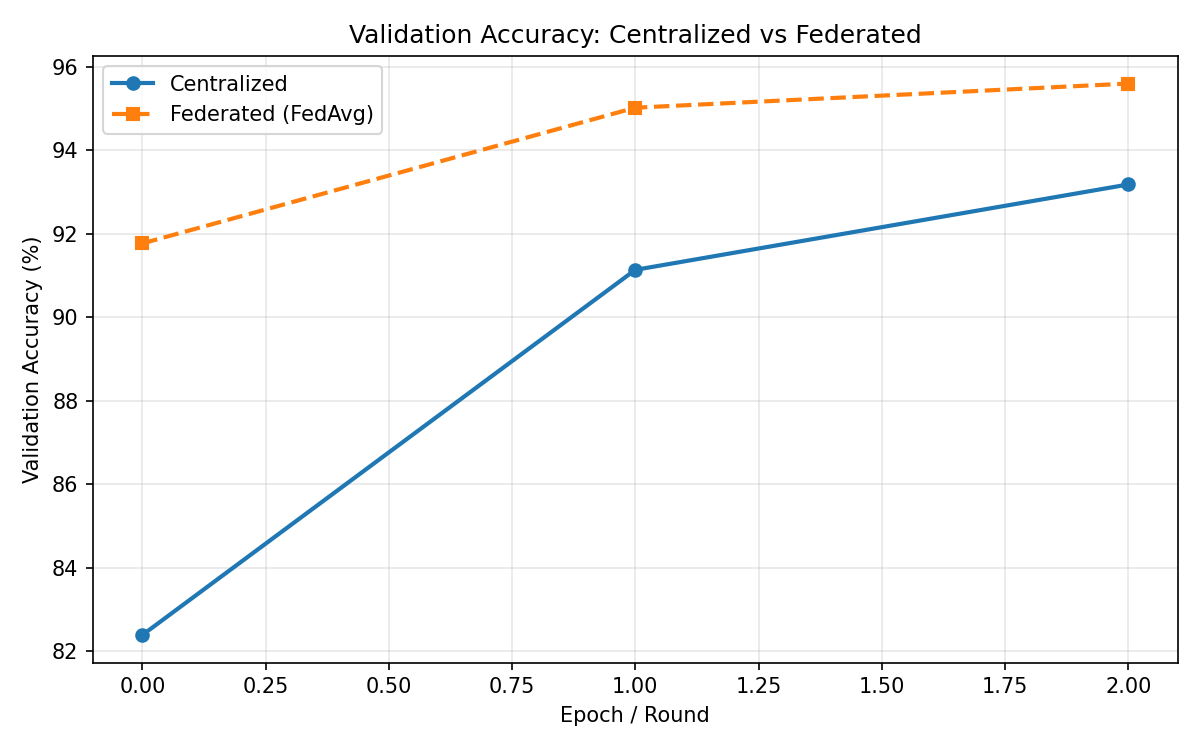
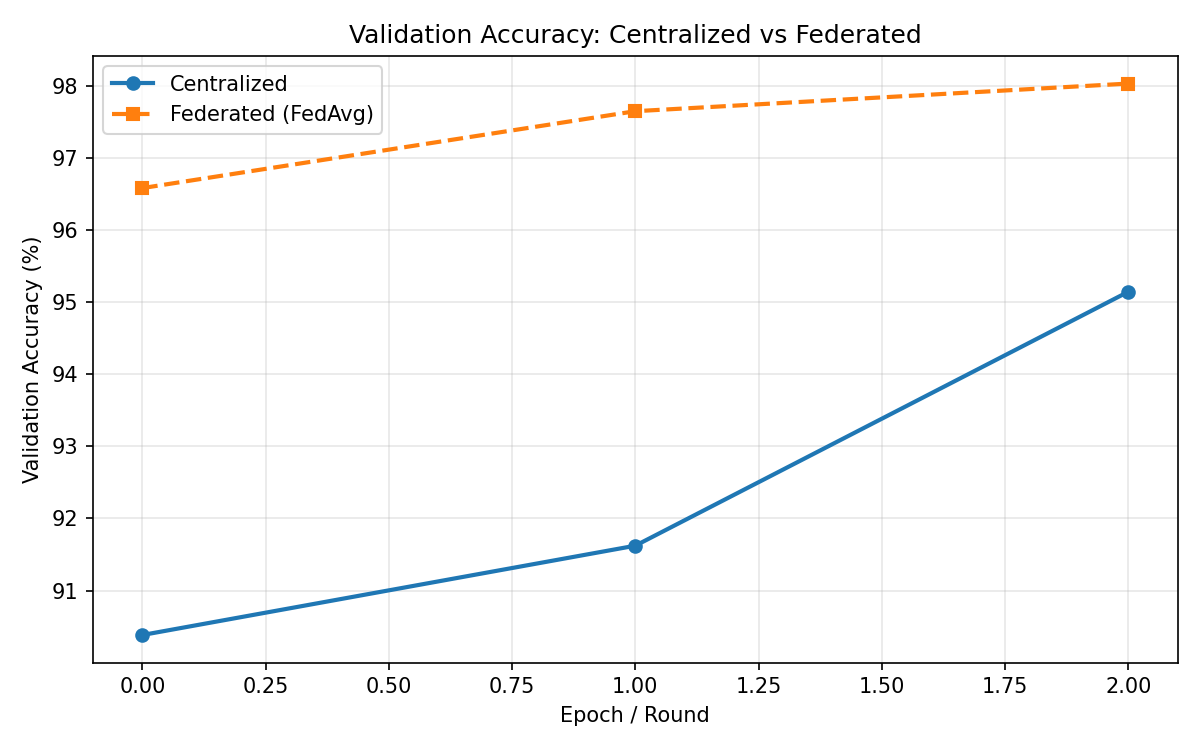
added minimal changes
deleted old version of comparison_overlay.py

the new version is directly connected to the code but does not work quuite well, there is a mistake in how fed_loss is displayed

diff --git a/src/overlay/comparison_overlay.py b/src/overlay/comparison_overlay.py
@@ -1,102 +1,62 @@
-import torch
-import copy
-from torchvision import datasets, transforms
-from torch.utils.data import DataLoader, random_split
-
+# %%
 import sys
 import os
 sys.path.append(os.path.abspath("../.."))
+print(sys.executable)
 
-from src.client_training import train_local, evaluate_model, aggregate
+from torchvision import datasets, transforms
+from torch.utils.data import DataLoader
+from torch.utils.data import random_split # use for data distribution for clients
+
+from client_training import run_fl, run_centralised_ml
+from data_loading import create_dirichlet_client_loaders, debug_non_iid_split
 from src.CNN_implementation import CNN
 from src.plotting import plot_loss_overlay, plot_acc_overlay  # the new file
 
 
-# ─── Shared Data Setup ────────────────────────────────────────────────────────
-
+# %%
+# Data Loading
 transform = transforms.ToTensor()
 
-full_mnist_trainset = datasets.MNIST(root='./data', train=True, download=True, transform=transform)
+full_mnist_trainset = datasets.MNIST(root = './data', train = True, download = True, transform = transform)
 train_size = int(0.7 * len(full_mnist_trainset))
-val_size   = len(full_mnist_trainset) - train_size
-mnist_trainset, mnist_valset = random_split(full_mnist_trainset, [train_size, val_size])
-mnist_testset = datasets.MNIST(root='./data', train=False, download=True, transform=transform)
+val_size = len(full_mnist_trainset) - train_size
 
-val_loader  = DataLoader(mnist_valset,  batch_size=64, shuffle=False)
+mnist_trainset, mnist_valset = random_split(full_mnist_trainset, [train_size, val_size])
+mnist_testset = datasets.MNIST(root = './data', train = False, download = True, transform = transform)
+# %%
+# CNN
+# a CNN with 2 layers: Layer1-> Relu->Pool->Layer2->...->Flatten->Fully connected->Output
+gl_model = CNN()
+model = CNN()
+NUMBER_OF_CLIENTS = 3
+# %%
+# Data Loaders
+client_training_loaders = create_dirichlet_client_loaders(number_of_clients = NUMBER_OF_CLIENTS,
+                                                          mnist_trainset = mnist_trainset,
+                                                          alpha = 10)
+train_loader = DataLoader(full_mnist_trainset, batch_size = 64, shuffle = True)
+###
+# this will show what digits each client has
+debug_non_iid_split(client_training_loaders)
+
+val_loader = DataLoader(mnist_valset, batch_size = 64, shuffle = False)
 test_loader = DataLoader(mnist_testset, batch_size=64, shuffle=False)
 
-
-# ─── 1. Centralized Training ─────────────────────────────────────────────────
-
-print("=" * 40)
-print("CENTRALIZED TRAINING")
-print("=" * 40)
-
-number_of_epochs = 3
-train_loader = DataLoader(mnist_trainset, batch_size=64, shuffle=True)
-
-central_model = CNN()
-_, central_losses, central_val_accs = train_local(
-    central_model, train_loader, val_loader, number_of_epochs, lr=0.01
-)
-
-central_test_acc = evaluate_model(test_loader, central_model, True)
-print(f"Centralized Test Accuracy: {central_test_acc:.2f}%")
-
-
-# ─── 2. Federated Training (FedAvg) ──────────────────────────────────────────
-
-print("\n" + "=" * 40)
-print("FEDERATED TRAINING (FedAvg)")
-print("=" * 40)
-
-number_of_clients = 5
-number_of_rounds  = 3
-epochs            = 1
-
-trainset_size        = len(mnist_trainset)
-client_trainset_size = trainset_size // number_of_clients
-client_trainsets     = random_split(mnist_trainset, [client_trainset_size] * number_of_clients)
-client_training_loaders = [DataLoader(ds, batch_size=64, shuffle=True) for ds in client_trainsets]
-
-global_model       = CNN()
-fed_losses         = []
-fed_val_accs       = []
-
-for round_num in range(number_of_rounds):
-    print(f"\nRound {round_num + 1}:")
-
-    client_state_dicts = []
-    num_samples        = []
-    round_losses       = []
-
-    for client in range(number_of_clients):
-        print(f"  Client {client + 1}:")
-        local_model = copy.deepcopy(global_model)
-        weights, losses, _ = train_local(
-            model=local_model,
-            train_loader=client_training_loaders[client],
-            number_of_epochs=epochs,
-            lr=0.1
-        )
-        client_state_dicts.append(weights)
-        num_samples.append(len(client_training_loaders[client].dataset))
-        round_losses.append(losses[-1])
-
-    round_loss = sum(round_losses) / len(round_losses)
-    fed_losses.append(round_loss)
-
-    global_model = aggregate(num_samples, client_state_dicts, global_model)
-
-    print(f"  Avg Loss: {round_loss:.4f}")
-    round_val_acc = evaluate_model(val_loader, global_model, True)
-    fed_val_accs.append(round_val_acc)
-
-fed_test_acc = evaluate_model(test_loader, global_model, True)
-print(f"\nFederated Test Accuracy: {fed_test_acc:.2f}%")
-
-
-# ─── 3. Overlay Plots ────────────────────────────────────────────────────────
+# %%
+central_losses, central_val_accs = run_centralised_ml(number_of_epochs = 3,
+                   train_loader = train_loader,
+                   val_loader = val_loader,
+                   test_loader = test_loader,
+                   model = model)
+# Now we need to aggregate the results with FedAvg
+fed_losses, fed_val_accs = run_fl(number_of_rounds = 3,
+       number_of_clients = NUMBER_OF_CLIENTS,
+       epochs = 3,
+       global_model = gl_model,
+       client_training_loaders = client_training_loaders,
+       val_loader = val_loader,
+       test_loader = test_loader)
 
 plot_loss_overlay(central_losses, fed_losses)
 plot_acc_overlay(central_val_accs, fed_val_accs)

diff --git a/src/client_training.py b/src/client_training.py
@@ -76,6 +76,7 @@ def run_centralised_ml(number_of_epochs, train_loader, val_loader, test_loader, 
     print(f"Test Accuracy: {test_accuracy:.2f}%")
     plot_loss( losses)
     plot_acc( val_accuracies)
+    return losses, val_accuracies
 
 # helper function for running FL algorithms
 def run_fl(number_of_rounds, number_of_clients, epochs, global_model, client_training_loaders, val_loader, test_loader):
@@ -112,3 +113,4 @@ def run_fl(number_of_rounds, number_of_clients, epochs, global_model, client_tra
 
     plot_loss(global_losses)
     plot_acc(global_val_accuracies)
+    return losses, global_val_accuracies

diff --git a/src/Centralized_Training/centralised_ML.py b/src/Centralized_Training/centralised_ML.py
@@ -31,4 +31,8 @@ val_loader = DataLoader(mnist_valset, batch_size = 64, shuffle = False)
 test_loader = DataLoader(mnist_testset, batch_size=64, shuffle=False)
 
 # function that does it all
-run_centralised_ml(number_of_epochs = 3, train_loader = train_loader, val_loader = val_loader, test_loader = test_loader, model = model)
+run_centralised_ml(number_of_epochs = 3,
+                   train_loader = train_loader,
+                   val_loader = val_loader,
+                   test_loader = test_loader,
+                   model = model)
